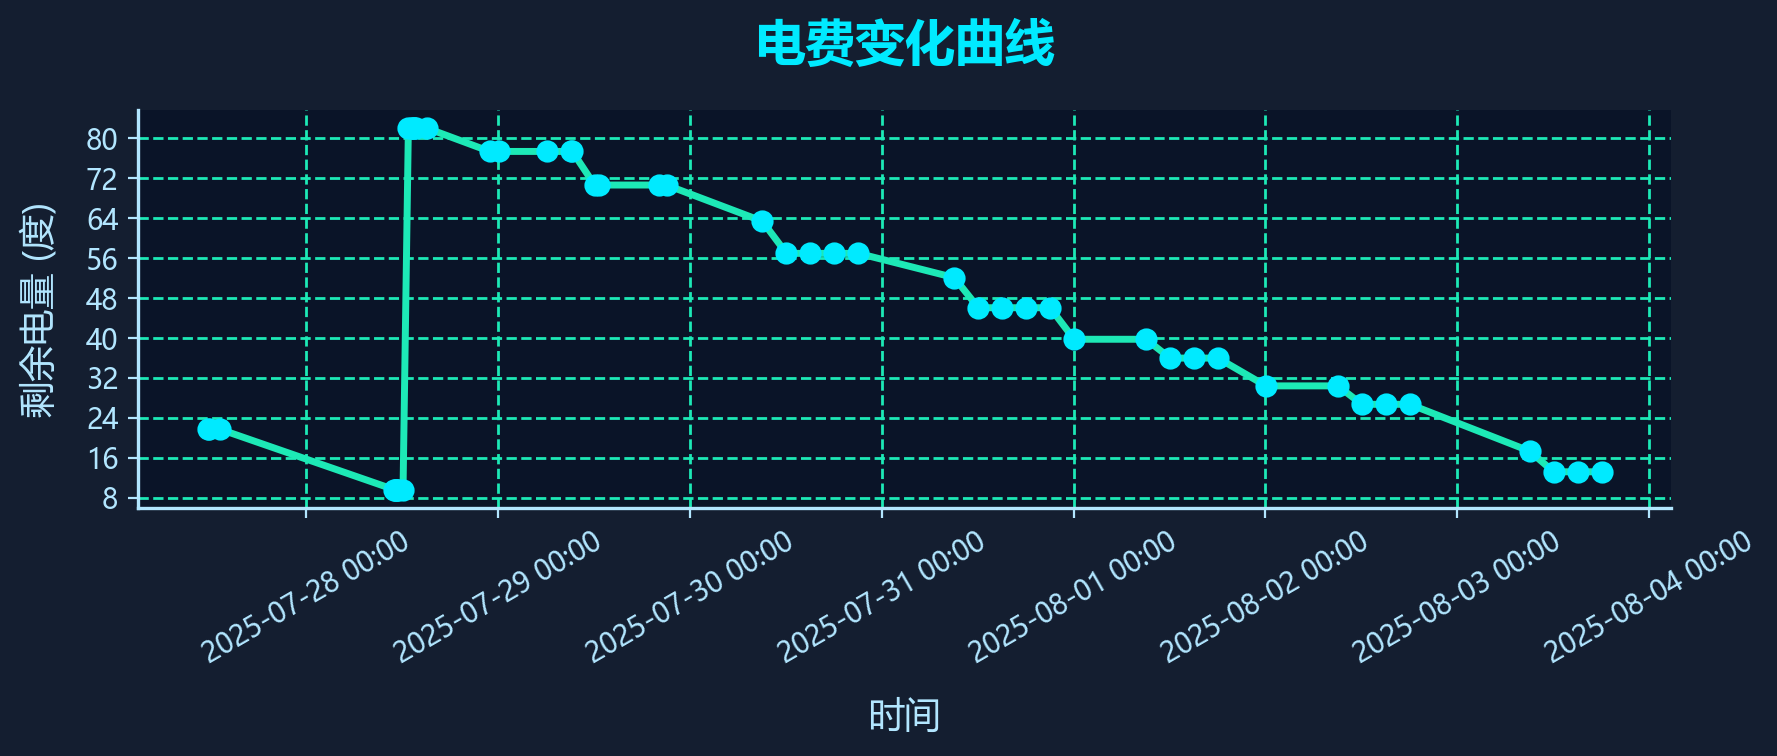
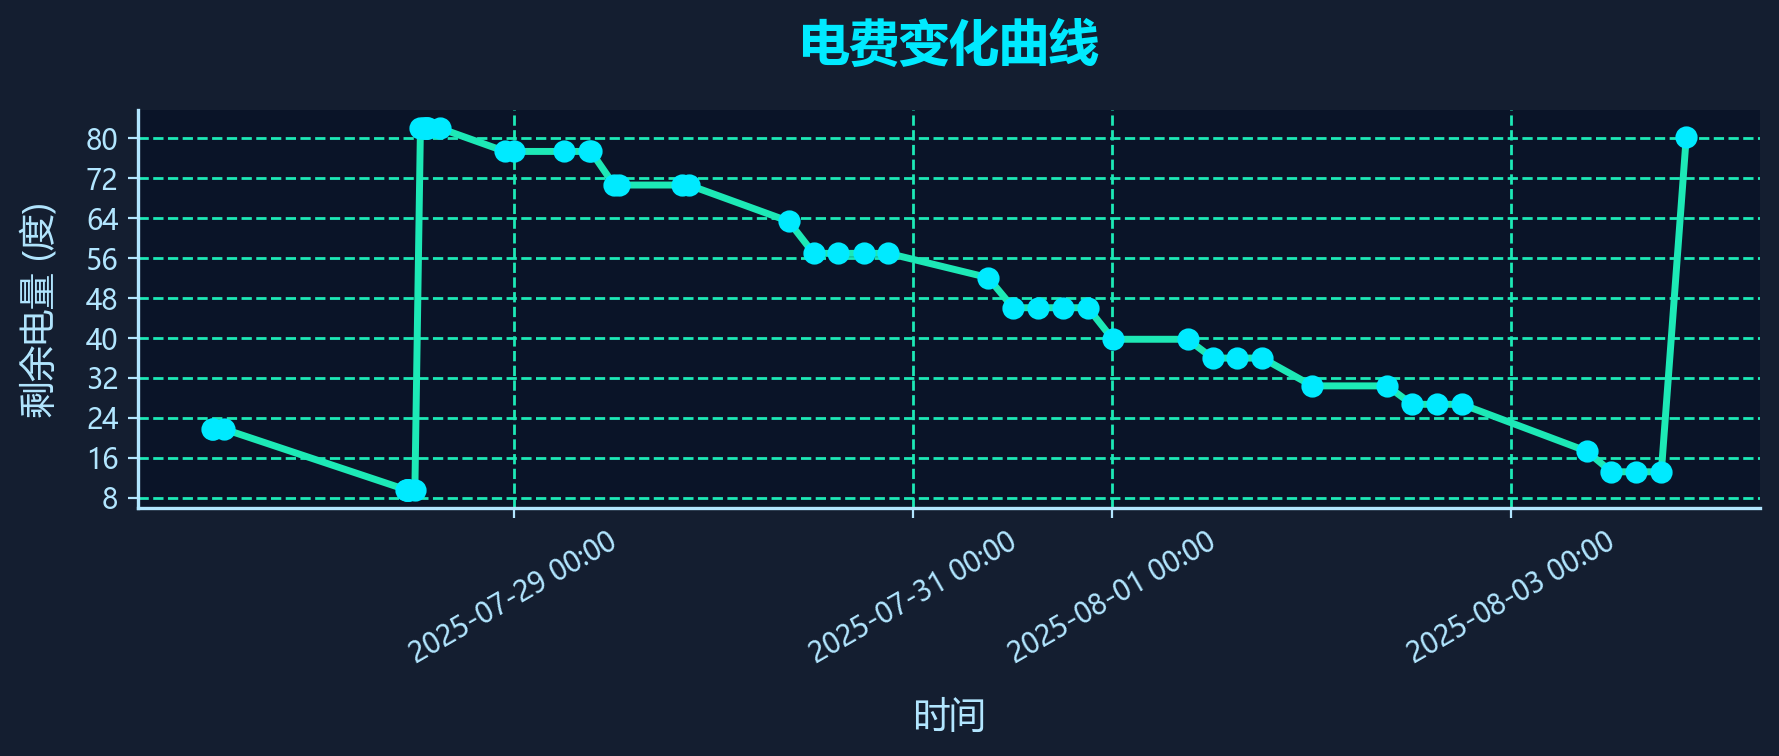
2025-08-03 21:03 自动提交电费变更

diff --git a/data/debug_page_source.html b/data/debug_page_source.html
@@ -2,7 +2,7 @@
     <meta http-equiv="Content-Type" content="text/html; charset=UTF-8">
     <meta http-equiv="X-UA-Compatible" content="IE=edge">
     <meta name="viewport" content="width=device-width, initial-scale=1, user-scalable=no">
-    <meta name="_csrf" content="ddb02392-fa13-4afe-b84d-64c5129f4e59">
+    <meta name="_csrf" content="25a41f70-8022-422c-807a-3db1ff89213f">
     <meta name="_csrf_header" content="X-CSRF-TOKEN">
     <link type="image/png" href="/epay/images/nju/icon.png" rel="shortcut icon">
     <link type="text/css" rel="stylesheet" href="/epay/css/wxpage/weui.min.css">
@@ -32,7 +32,7 @@
 
 
 <body>
-<div id="app"><div class="centent"><div class="top"><div class="clearfix"><span class="fl">持卡人姓名：<i>吴相民</i></span></div> <div class="clearfix"><span class="fl">校园卡余额：<i class="green">16.04元</i></span></div></div> <div class="line"></div> <div class="cont"><div class="clearfix"><span class="fl">缴费地址：<i>仙林校区 18幢 18栋第4层422</i></span></div> <div class="clearfix"><span class="fl">剩余电量：<i>13.20度</i><em></em></span></div> <!----> <!----></div> <div class="num clearfix"><div style="display: flex; flex-wrap: wrap;"><span class="active">10元</span><span class="">20元</span><span class="">50元</span><span class="">100元</span><span class="">200元</span><span class="">自定义</span></div></div> <div class="inputbox" style="display: none;"><input type="text" placeholder="请输入充值金额" pattern="[0-9]*" maxlength="4" id="amount"></div> <div class="footer">充值</div> <div class="desc">充值时间：每天00:05-23:55</div> <div class="wapat"><div class="wapat-inner"><div class="wapat-title">错误！</div> <div class="wapat-btn-box"><div class="wapat-btn wapat-btn-ok">确定</div></div></div></div></div></div>
+<div id="app"><div class="centent"><div class="top"><div class="clearfix"><span class="fl">持卡人姓名：<i>吴相民</i></span></div> <div class="clearfix"><span class="fl">校园卡余额：<i class="green">116.03元</i></span></div></div> <div class="line"></div> <div class="cont"><div class="clearfix"><span class="fl">缴费地址：<i>仙林校区 18幢 18栋第4层422</i></span></div> <div class="clearfix"><span class="fl">剩余电量：<i>80.31度</i><em></em></span></div> <!----> <!----></div> <div class="num clearfix"><div style="display: flex; flex-wrap: wrap;"><span class="active">10元</span><span class="">20元</span><span class="">50元</span><span class="">100元</span><span class="">200元</span><span class="">自定义</span></div></div> <div class="inputbox" style="display: none;"><input type="text" placeholder="请输入充值金额" pattern="[0-9]*" maxlength="4" id="amount"></div> <div class="footer">充值</div> <div class="desc">充值时间：每天00:05-23:55</div> <div class="wapat"><div class="wapat-inner"><div class="wapat-title">错误！</div> <div class="wapat-btn-box"><div class="wapat-btn wapat-btn-ok">确定</div></div></div></div></div></div>
 
 
 
